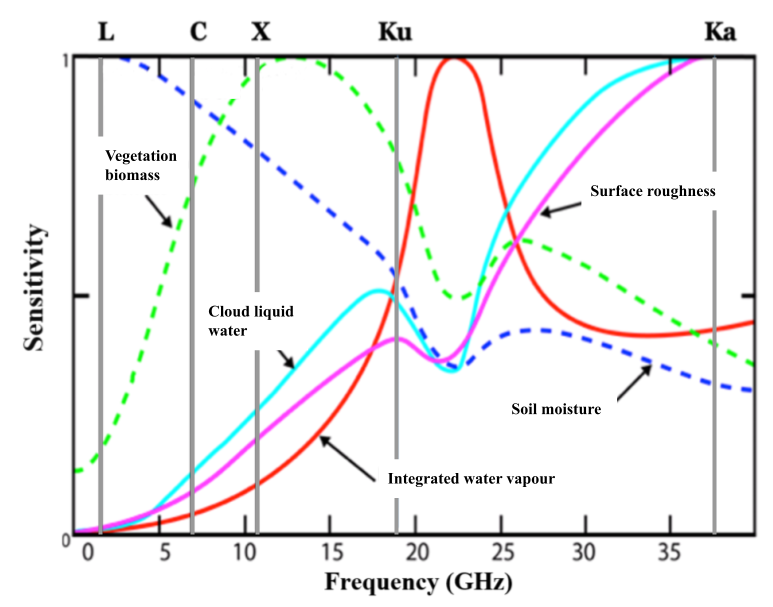
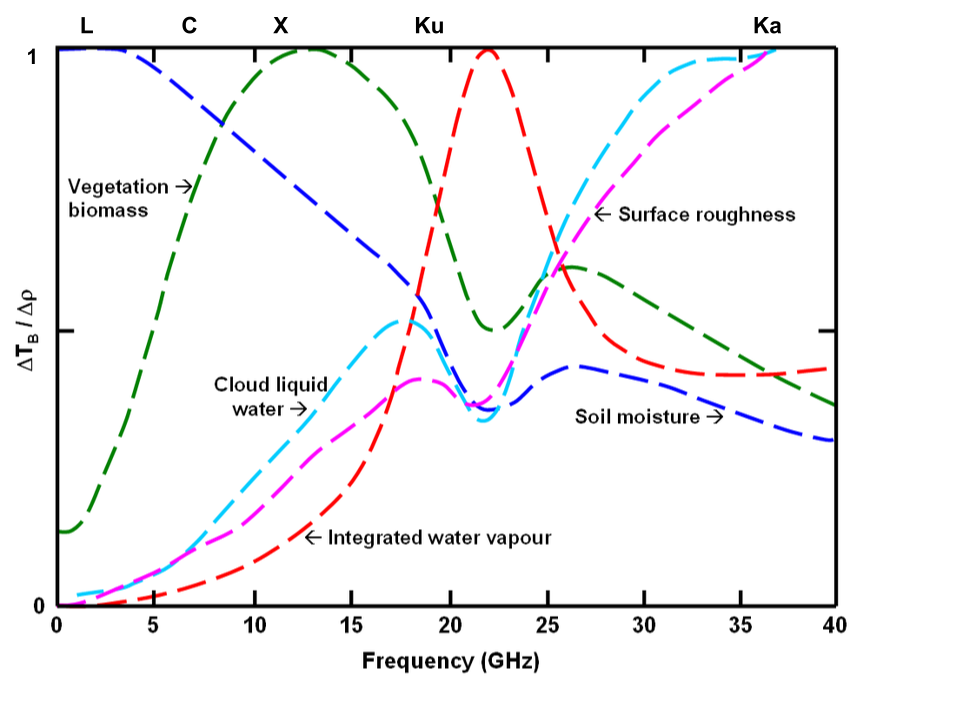
2nd round changes of text from L2PAD

Changed region(s): [[0.0, 0.0297, 0.9935, 0.9786], [0.652, 0.6524, 0.7762, 0.682]]

diff --git a/book/background_justification_algorithm.md b/book/background_justification_algorithm.md
@@ -31,18 +31,18 @@ name: Figure_1
 Contributions to the Top Of Atmosphere (TOA) brigthness temperature [from SMOS ATBD, ref. 12 and SMAP ATBD, Figure 2]
 ```
 
-The process of obtaining soil moisture information from CIMR TB observations involves using the tau-omega model, which is commonly employed in the passive microwave soil moisture community. This model takes into account the impact of a layer of vegetation covering the soil, which affects the emission of the soil and adds to the overall radiative flux its own emission. When working with L band frequencies, it is generally assumed that the scattering within the vegetation is negligible, so the vegetation can be considered primarily as an absorbing layer.
+The passive microwave radiometry community typically use the zeroth-order solution to the radiative transfer equation (known as the tau-omega model {cite:p}`Mo1982`) to simultaneously characterize surface and vegetation emission. It takes into account the impact of a layer of vegetation covering the soil, which affects the emission of the soil and adds to the overall radiative flux its own emission. The process of obtaining soil moisture and microwave vegetation parameters from CIMR TB observations involves inverting this model in two different configurations. In the first configuration, the tau-omega model will be inverted twice: one to estimate soil moisture and VOD from L-band TBs at its native resolution (~60 km), and a second one to estimate soil moisture and VOD from L-band TBs sharpened with C/X-bands (~15 km). In the second configuration, the SM estimates at ~15 km will be used as an initial guess to invert the tau-omega model three times and estimate time-dynamic vegetation attenuation and scattering from CIMR 1) L-band sharpened TBs, 2) C-band TBs and 3) X-band TBs.
 
 ## Justification of selected algorithm
 
-In this section, we justify the selection of our proposed algorithm, which is founded on the SMOS-IC algorithm for SMOS {cite:p}`wigneron2007,fernandez-moran2017` and the Multi-Temporal Dual Channel Algorithm for SMAP {cite:p}`KONINGS2016,KONINGS2017`. This algorithm makes use of both H-polarized and V-polarized TB observations to estimate soil moisture and vegetation optical depth or vegetation opacity, 𝜏 at L-band. The choice of this band is attributed to its ability to penetrate deeper into vegetation, providing more accurate measurements. Thus, in the presence of dense biomass, the transmissivity decays in a lower extent for L-band (1.4 GHz), as compared to higher frequencies: C-band (6 GHz), and X-band (10 GHz) frequencies, also sensitive to soil moisture but to a lesser extent. Various factors, including vegetation biomass, cloud liquid water, soil moisture, surface roughness, and integrated water vapour, influence the TB differently across each CIMR band, as illustrated in the referenced figure ({numref}`TBsens`). Considering that the highest sensitivity is observed at the L-band, this provides insight into why both SMOS and SMAP utilize L-band sensors for global soil moisture estimation under a range of vegetation conditions. It must be noted that measuring soil moisture at L-band has the added benefit of capturing microwave emission from deeper within the soil, typically around 5 cm, whereas C- and X-band emissions primarily originate from a thinner layer. This is feasible due to the relationship between soil moisture and soil permittivity and the connection between soil permittivity and soil emissivity. For that, the passive microwave remote sensing community has developed numerous soil dielectric models in recent decades, which, despite their differences, commonly utilize soil moisture, soil texture, and frequency. Well-known examples include Dobson, Wang & Schmugge, and Mironov. For this project, we opted for the Mironov model due to its flexibility and strong performance when utilizing the soil's clay percentage as the sole ancillary data {cite:p}`Mialon2015`.
+In this section, we justify the selection of our proposed algorithm, which is founded on the SMOS-IC algorithm for SMOS {cite:p}`wigneron2007,fernandez-moran2017` and the Multi-Temporal Dual Channel Algorithm for SMAP {cite:p}`KONINGS2016,KONINGS2017`. This algorithm makes use of both H-polarized and V-polarized TB observations to estimate soil moisture and vegetation optical depth or vegetation opacity, $𝜏$ at L-band. The choice of this band is attributed to its ability to penetrate deeper into vegetation, providing more accurate measurements. Thus, in the presence of dense biomass, the transmissivity decays in a lower extent for L-band (1.4 GHz), as compared to higher frequencies: C-band (6 GHz), and X-band (10 GHz) frequencies, also sensitive to soil moisture but to a lesser extent. Various factors, including vegetation biomass, cloud liquid water, soil moisture, surface roughness, and integrated water vapour, influence the TB differently across each CIMR band, as illustrated in the referenced figure ({numref}`TBsens`). Considering that the highest sensitivity is observed at the L-band ({cite:p}`Link2019`), this provides insight into why both SMOS and SMAP utilize L-band sensors for global soil moisture estimation under a range of vegetation conditions. It must be noted that measuring soil moisture at L-band has the added benefit of capturing microwave emission from deeper within the soil, typically around 5 cm, whereas C- and X-band emissions primarily originate from a thinner layer. This is feasible due to the relationship between soil moisture and soil permittivity and the connection between soil permittivity and soil emissivity. For that, the passive microwave remote sensing community has developed numerous soil dielectric models in recent decades, which, despite their differences, commonly utilize soil moisture, soil texture, and frequency. Well-known examples include Dobson, Wang & Schmugge, and Mironov. For this project, we opted for the Mironov model due to its flexibility and strong performance when utilizing the soil's clay percentage as the sole ancillary data {cite:p}`Mialon2015`.
 
 
-```{figure} /images/tbsensitivity.png
+```{figure} /images/TB_sensitivity.png
 --- 
 name: TBsens
 ---
 Sensitivity of TB to different factors across CIMR bands (adapted from {cite:p}`Kerr1996`)
 ```
 
-It is important to note that at L-band, another parameter of interest, 𝜏, can be retrieved. 𝜏 quantifies the attenuation of L-band microwave radiation by the vegetation canopy. While vegetation is typically studied using optical or infrared frequencies, the longer wavelengths of L-band sensors allow radiation to penetrate the canopy more effectively. As a result, 𝜏 can be linked to a variety of vegetation attributes, such as forest height, vegetation structure, water content, sap flow, and leaf fall. Furthermore, some vegetation indices, like the Leaf Area Index (LAI) and the Normalized Difference Vegetation Index (NDVI), can also be correlated with 𝜏. Notably, several studies have emphasized the substantial influence of soil roughness on the retrieved 𝜏 values at both local and regional scales {cite:p}`grant2016, fernandez-moran2017b`.
+It is important to note that at L-band, another parameter of interest, $𝜏$, can be retrieved. $𝜏$ quantifies the attenuation of L-band microwave radiation by the vegetation canopy. While vegetation is typically studied using optical or infrared frequencies, the longer wavelengths of L-band sensors allow radiation to penetrate the canopy more effectively. As a result, $𝜏$ can be linked to a variety of vegetation attributes, such as forest height, vegetation structure, water content, sap flow, and leaf fall. Furthermore, some vegetation indices, like the Leaf Area Index (LAI) and the Normalized Difference Vegetation Index (NDVI), can also be correlated with $𝜏$. Notably, several studies have emphasized the substantial influence of soil roughness on the retrieved $𝜏$ values at both local and regional scales {cite:p}`grant2016, fernandez-moran2017b`.

diff --git a/book/baseline_algorithm_definition.md b/book/baseline_algorithm_definition.md
@@ -17,7 +17,7 @@ The retrieval of soil moisture and microwave vegetation parameters from CIMR sur
 TB_p = T_s e_p \exp{(-\tau \sec \theta)} + T_c (1 - \omega)[1 - \exp(-\tau \sec \theta)][1 + r_p \exp(-\tau \sec \theta)]
 ```
 
-Where the subscript p refers to polarization (V or H), Ts denotes the soil temperature and Tc stands for the canopy temperature, and $r_p$ is the soil reflectivity of a rough surface. The reflectivity is connected to the emissivity ($e_p$) through the relation $e_p = (1 - r_p)$. Note that τ and ω are theoretically polarization dependent, but are assumed to be polarization independent across satellite-scale retrieval applications ({cite:p}`Wigneron2017`).  It must be noted that $\omega$ will be treated here as an effective parameter {cite:p}`KURUM201366`.
+Where the subscript p refers to polarization (V or H), $T_s$ denotes the soil temperature and $T_c$ stands for the canopy temperature, and $r_p$ is the soil reflectivity of a rough surface. The reflectivity is connected to the emissivity ($e_p$) through the relation $e_p = (1 - r_p)$. Note that $τ$ and $ω$ are theoretically polarization dependent, but are assumed to be polarization independent across satellite-scale retrieval applications ({cite:p}`Wigneron2017`).  It must be noted that $\omega$ will be treated here as an effective parameter {cite:p}`KURUM201366`.
 
 According to Beer's law, the overlying canopy layer's transmissivity or vegetation attenuation factor , $\gamma$, is given by $\gamma = \exp(-𝜏 \sec \theta)$. Equation {eq}`TB-tauomega` assumes that vegetation multiple scattering and reflection at the vegetation-air interface are negligible. 
 
@@ -37,7 +37,7 @@ where $\theta$ represents the CIMR incidence angle, while $\epsilon$ denotes the
 
 It is important to note that an increase in soil moisture is accompanied by a proportional increase in the soil dielectric constant ($\epsilon$). For instance, liquid water has a dielectric constant of 80, while dry soil possesses a dielectric constant of 5. Furthermore, it should be acknowledged that a low dielectric constant is not uniquely indicative of dry soil conditions. Frozen soil, regardless of water content, exhibits a dielectric constant similar to that of dry soil. Consequently, a freeze/thaw flag is required to resolve this ambiguity. Since TB is proportional to emissivity for a given surface soil temperature, TB decreases as soil moisture increases. In the CIMR algorithm, $\epsilon$ is expressed as a function of SM, soil clay fraction and soil temperature using the model developed by Mironov {cite:p}`mironov2012`.
 
-This relationship between soil moisture and soil dielectric constant (and consequently microwave emissivity and brightness temperature) establishes the basis for passive remote sensing of soil moisture. With CIMR observations of TB and information on $T_s$ and $T_c$, $H_R$, and $\omega$ from ancillary sources, soil moisture (SM) and vegetation optical depth (VOD) can be retrieved. The procedure for this retrieval is detailed in the section 'Retrieval Method'.
+This relationship between soil moisture and soil dielectric constant (and consequently microwave emissivity and brightness temperature) establishes the basis for passive remote sensing of soil moisture. With CIMR observations of TB and information on $T_s$ and $T_c$, $H_R$, and $\omega$ from ancillary sources, soil moisture (SM) and vegetation optical depth (VOD) can be retrieved.
 
 ## Retrieval Method
 
